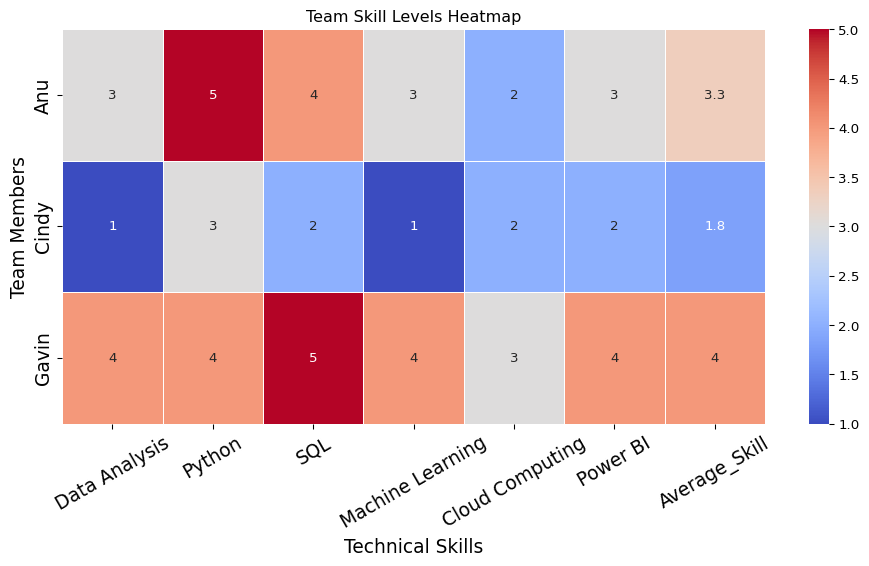
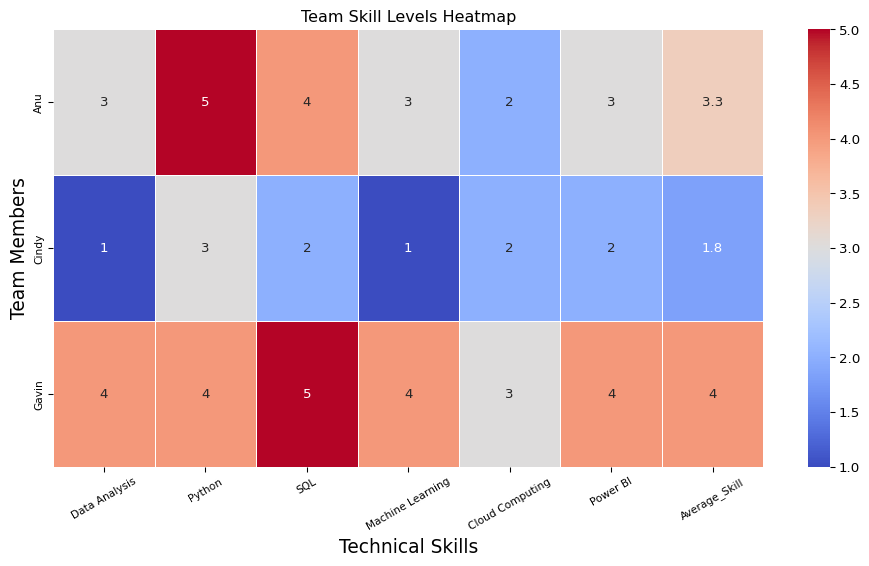
Updated font size for heatmap x and y axis

diff --git a/docs/skill_gap_analysis.html b/docs/skill_gap_analysis.html
@@ -218,7 +218,7 @@ pre > code.sourceCode > span > a:first-child::before { text-decoration: underlin
 <section id="team-dataframe" class="level1" data-number="1">
 <h1 data-number="1"><span class="header-section-number">1</span> Team Dataframe</h1>
 <p>Our team conducted an overview of our current technical skills when it comes to Business Analytics and our skill levels. The goal was to understand where the group’s strengths and weaknesses were, and understand how the data that was collected could relate to the data that was observed in the research conducted. This was used to identify strengths and weaknesses for the group while also identifying potential gaps within the group.</p>
-<div id="928e9362" class="cell" data-execution_count="1">
+<div id="3fb87f59" class="cell" data-execution_count="1">
 <details class="code-fold">
 <summary>Code</summary>
 <div class="sourceCode cell-code" id="cb1"><pre class="sourceCode python code-with-copy"><code class="sourceCode python"><span id="cb1-1"><a href="#cb1-1" aria-hidden="true" tabindex="-1"></a><span class="im">import</span> pandas <span class="im">as</span> pd</span>
@@ -252,30 +252,30 @@ pre > code.sourceCode > span > a:first-child::before { text-decoration: underlin
 <span id="cb1-29"><a href="#cb1-29" aria-hidden="true" tabindex="-1"></a></span>
 <span id="cb1-30"><a href="#cb1-30" aria-hidden="true" tabindex="-1"></a>df_styled</span></code><button title="Copy to Clipboard" class="code-copy-button"><i class="bi"></i></button></pre></div>
 </details>
-<div class="cell-output cell-output-display" data-execution_count="1">
+<div class="cell-output cell-output-display" data-execution_count="3">
 <div>
 <style type="text/css">
-#T_7353f th {
+#T_34160 th {
   border: 1px solid black;
   text-align: center;
 }
-#T_7353f  td {
+#T_34160  td {
   border: 1px solid black;
   text-align: center;
 }
 </style>
 
-<table id="T_7353f" data-quarto-postprocess="true" class="table table-sm table-striped small">
+<table id="T_34160" data-quarto-postprocess="true" class="table table-sm table-striped small">
 <thead>
 <tr class="header">
 <th class="blank level0" data-quarto-table-cell-role="th">&nbsp;</th>
-<th id="T_7353f_level0_col0" class="col_heading level0 col0" data-quarto-table-cell-role="th">Data Analysis</th>
-<th id="T_7353f_level0_col1" class="col_heading level0 col1" data-quarto-table-cell-role="th">Python</th>
-<th id="T_7353f_level0_col2" class="col_heading level0 col2" data-quarto-table-cell-role="th">SQL</th>
-<th id="T_7353f_level0_col3" class="col_heading level0 col3" data-quarto-table-cell-role="th">Machine Learning</th>
-<th id="T_7353f_level0_col4" class="col_heading level0 col4" data-quarto-table-cell-role="th">Cloud Computing</th>
-<th id="T_7353f_level0_col5" class="col_heading level0 col5" data-quarto-table-cell-role="th">Power BI</th>
-<th id="T_7353f_level0_col6" class="col_heading level0 col6" data-quarto-table-cell-role="th">Average_Skill</th>
+<th id="T_34160_level0_col0" class="col_heading level0 col0" data-quarto-table-cell-role="th">Data Analysis</th>
+<th id="T_34160_level0_col1" class="col_heading level0 col1" data-quarto-table-cell-role="th">Python</th>
+<th id="T_34160_level0_col2" class="col_heading level0 col2" data-quarto-table-cell-role="th">SQL</th>
+<th id="T_34160_level0_col3" class="col_heading level0 col3" data-quarto-table-cell-role="th">Machine Learning</th>
+<th id="T_34160_level0_col4" class="col_heading level0 col4" data-quarto-table-cell-role="th">Cloud Computing</th>
+<th id="T_34160_level0_col5" class="col_heading level0 col5" data-quarto-table-cell-role="th">Power BI</th>
+<th id="T_34160_level0_col6" class="col_heading level0 col6" data-quarto-table-cell-role="th">Average_Skill</th>
 </tr>
 <tr class="odd">
 <th class="index_name level0" data-quarto-table-cell-role="th">Name</th>
@@ -290,41 +290,41 @@ pre > code.sourceCode > span > a:first-child::before { text-decoration: underlin
 </thead>
 <tbody>
 <tr class="odd">
-<td id="T_7353f_level0_row0" class="row_heading level0 row0" data-quarto-table-cell-role="th">Anu</td>
-<td id="T_7353f_row0_col0" class="data row0 col0">3</td>
-<td id="T_7353f_row0_col1" class="data row0 col1">5</td>
-<td id="T_7353f_row0_col2" class="data row0 col2">4</td>
-<td id="T_7353f_row0_col3" class="data row0 col3">3</td>
-<td id="T_7353f_row0_col4" class="data row0 col4">2</td>
-<td id="T_7353f_row0_col5" class="data row0 col5">3</td>
-<td id="T_7353f_row0_col6" class="data row0 col6">3.333333</td>
+<td id="T_34160_level0_row0" class="row_heading level0 row0" data-quarto-table-cell-role="th">Anu</td>
+<td id="T_34160_row0_col0" class="data row0 col0">3</td>
+<td id="T_34160_row0_col1" class="data row0 col1">5</td>
+<td id="T_34160_row0_col2" class="data row0 col2">4</td>
+<td id="T_34160_row0_col3" class="data row0 col3">3</td>
+<td id="T_34160_row0_col4" class="data row0 col4">2</td>
+<td id="T_34160_row0_col5" class="data row0 col5">3</td>
+<td id="T_34160_row0_col6" class="data row0 col6">3.333333</td>
 </tr>
 <tr class="even">
-<td id="T_7353f_level0_row1" class="row_heading level0 row1" data-quarto-table-cell-role="th">Cindy</td>
-<td id="T_7353f_row1_col0" class="data row1 col0">1</td>
-<td id="T_7353f_row1_col1" class="data row1 col1">3</td>
-<td id="T_7353f_row1_col2" class="data row1 col2">2</td>
-<td id="T_7353f_row1_col3" class="data row1 col3">1</td>
-<td id="T_7353f_row1_col4" class="data row1 col4">2</td>
-<td id="T_7353f_row1_col5" class="data row1 col5">2</td>
-<td id="T_7353f_row1_col6" class="data row1 col6">1.833333</td>
+<td id="T_34160_level0_row1" class="row_heading level0 row1" data-quarto-table-cell-role="th">Cindy</td>
+<td id="T_34160_row1_col0" class="data row1 col0">1</td>
+<td id="T_34160_row1_col1" class="data row1 col1">3</td>
+<td id="T_34160_row1_col2" class="data row1 col2">2</td>
+<td id="T_34160_row1_col3" class="data row1 col3">1</td>
+<td id="T_34160_row1_col4" class="data row1 col4">2</td>
+<td id="T_34160_row1_col5" class="data row1 col5">2</td>
+<td id="T_34160_row1_col6" class="data row1 col6">1.833333</td>
 </tr>
 <tr class="odd">
-<td id="T_7353f_level0_row2" class="row_heading level0 row2" data-quarto-table-cell-role="th">Gavin</td>
-<td id="T_7353f_row2_col0" class="data row2 col0">4</td>
-<td id="T_7353f_row2_col1" class="data row2 col1">4</td>
-<td id="T_7353f_row2_col2" class="data row2 col2">5</td>
-<td id="T_7353f_row2_col3" class="data row2 col3">4</td>
-<td id="T_7353f_row2_col4" class="data row2 col4">3</td>
-<td id="T_7353f_row2_col5" class="data row2 col5">4</td>
-<td id="T_7353f_row2_col6" class="data row2 col6">4.000000</td>
+<td id="T_34160_level0_row2" class="row_heading level0 row2" data-quarto-table-cell-role="th">Gavin</td>
+<td id="T_34160_row2_col0" class="data row2 col0">4</td>
+<td id="T_34160_row2_col1" class="data row2 col1">4</td>
+<td id="T_34160_row2_col2" class="data row2 col2">5</td>
+<td id="T_34160_row2_col3" class="data row2 col3">4</td>
+<td id="T_34160_row2_col4" class="data row2 col4">3</td>
+<td id="T_34160_row2_col5" class="data row2 col5">4</td>
+<td id="T_34160_row2_col6" class="data row2 col6">4.000000</td>
 </tr>
 </tbody>
 </table>
 </div>
 </div>
 </div>
-<div id="033a417b" class="cell" data-execution_count="2">
+<div id="19166597" class="cell" data-execution_count="2">
 <details class="code-fold">
 <summary>Code</summary>
 <div class="sourceCode cell-code" id="cb2"><pre class="sourceCode python code-with-copy"><code class="sourceCode python"><span id="cb2-1"><a href="#cb2-1" aria-hidden="true" tabindex="-1"></a><span class="im">import</span> seaborn <span class="im">as</span> sns</span>
@@ -335,8 +335,8 @@ pre > code.sourceCode > span > a:first-child::before { text-decoration: underlin
 <span id="cb2-6"><a href="#cb2-6" aria-hidden="true" tabindex="-1"></a>plt.title(<span class="st">"Team Skill Levels Heatmap"</span>)</span>
 <span id="cb2-7"><a href="#cb2-7" aria-hidden="true" tabindex="-1"></a>plt.xlabel(<span class="st">"Technical Skills"</span>, fontsize<span class="op">=</span><span class="dv">14</span>)</span>
 <span id="cb2-8"><a href="#cb2-8" aria-hidden="true" tabindex="-1"></a>plt.ylabel(<span class="st">"Team Members"</span>, fontsize<span class="op">=</span><span class="dv">14</span>)</span>
-<span id="cb2-9"><a href="#cb2-9" aria-hidden="true" tabindex="-1"></a>plt.xticks(rotation<span class="op">=</span><span class="dv">30</span>, fontsize<span class="op">=</span><span class="dv">14</span>)  </span>
-<span id="cb2-10"><a href="#cb2-10" aria-hidden="true" tabindex="-1"></a>plt.yticks(rotation<span class="op">=</span><span class="dv">90</span>, fontsize<span class="op">=</span><span class="dv">14</span>)</span>
+<span id="cb2-9"><a href="#cb2-9" aria-hidden="true" tabindex="-1"></a>plt.xticks(rotation<span class="op">=</span><span class="dv">30</span>, fontsize<span class="op">=</span><span class="dv">8</span>)  </span>
+<span id="cb2-10"><a href="#cb2-10" aria-hidden="true" tabindex="-1"></a>plt.yticks(rotation<span class="op">=</span><span class="dv">90</span>, fontsize<span class="op">=</span><span class="dv">8</span>)</span>
 <span id="cb2-11"><a href="#cb2-11" aria-hidden="true" tabindex="-1"></a>annot_kws<span class="op">=</span>{<span class="st">"fontsize"</span>:<span class="dv">12</span>}</span>
 <span id="cb2-12"><a href="#cb2-12" aria-hidden="true" tabindex="-1"></a>plt.tight_layout()</span>
 <span id="cb2-13"><a href="#cb2-13" aria-hidden="true" tabindex="-1"></a>plt.show()</span></code><button title="Copy to Clipboard" class="code-copy-button"><i class="bi"></i></button></pre></div>
